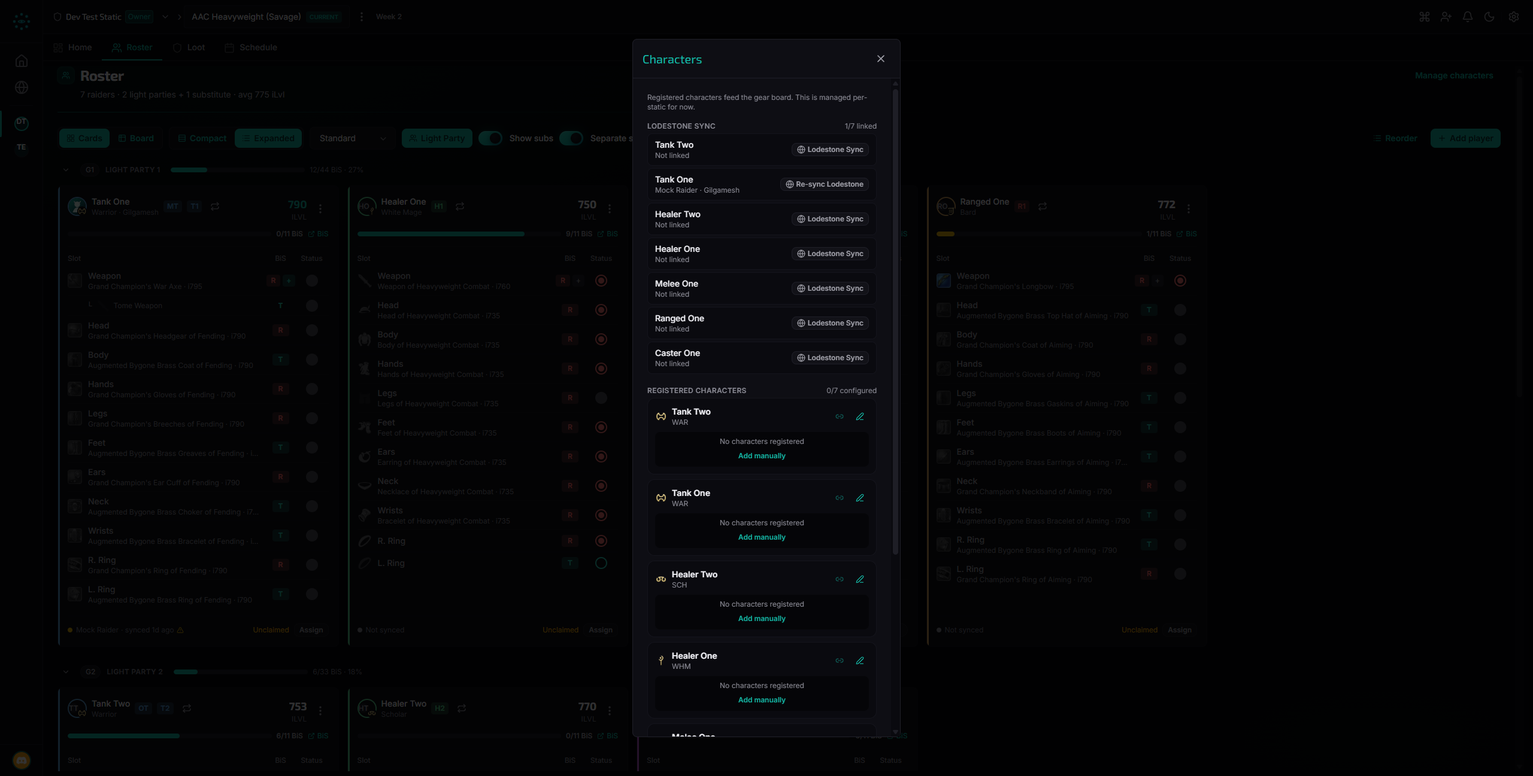
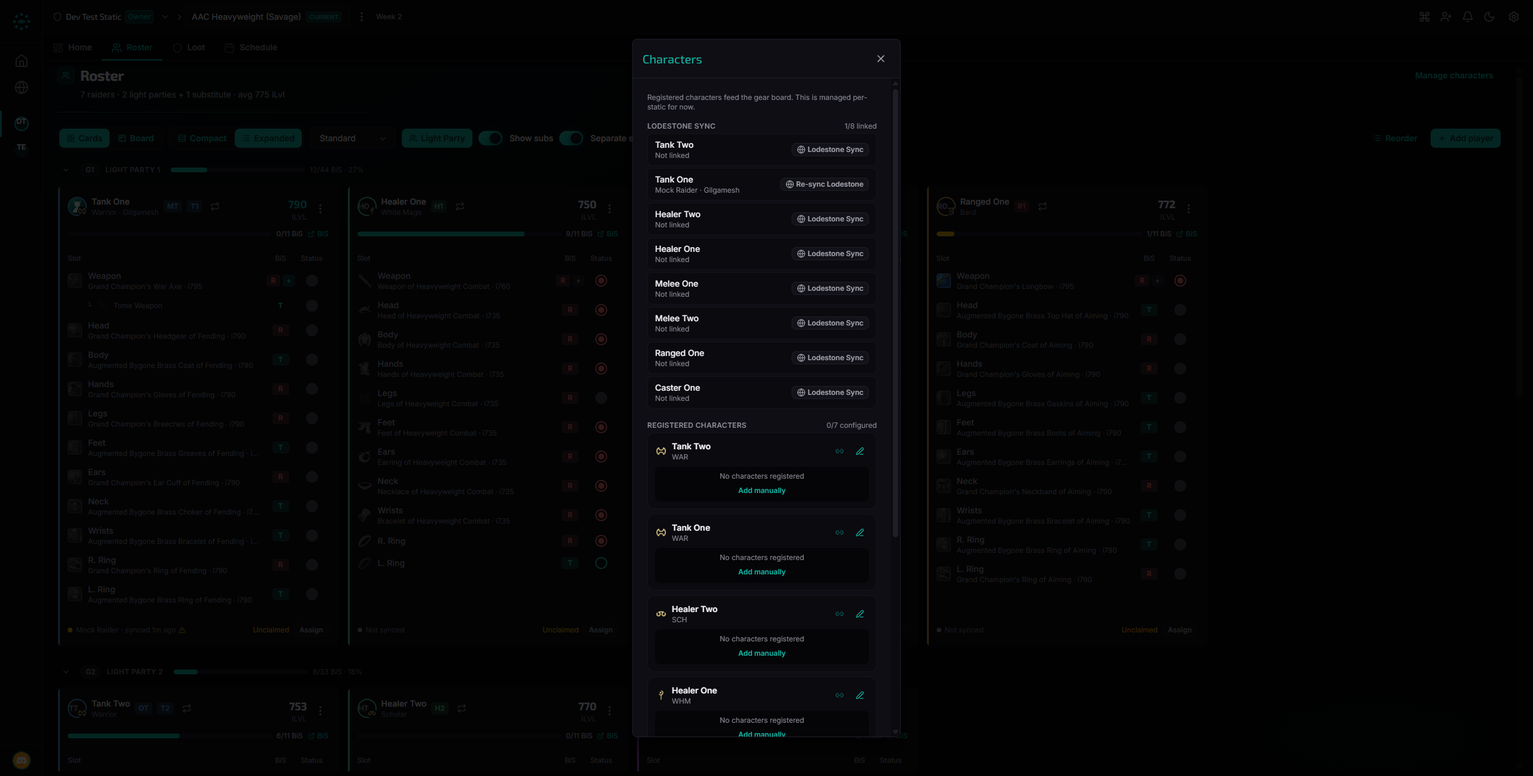
fix(redesign): C8 director change-review — fold all 10 findings
Verdict was PARITY-GAP. The mount ruling and the V1 freeze held (director
re-ran the two-part assert independently), but the entry list dropped a case.

BLOCKER F1 — substitutes had no v2 path to the flow at all. The section was
built from `mainRosterPlayers` (`configured && !isSubstitute`). The `configured`
half is parity; the `!isSubstitute` half is not — legacy renders a full
PlayerCard for every substitute (`PlayerGrid.tsx:680-681`) and R-041 carries no
isSubstitute condition, while v2's kebab deliberately never had the item. Net:
unreachable. The sync list is now its own wider list (`syncEligiblePlayers`);
the shared registry panel keeps legacy's main-roster-only list, matching
legacy's own mount at `GroupViewContent.tsx:948`. Live: "1/8 linked" with
Melee Two present.

MAJOR F2 — the gate passed raw `isAdmin` where every other `canEditPlayer`
caller passes `isAdminAccess` (`PlayerCard.tsx:319-320`). Under View As the
rows would all have stayed enabled while the cards downgraded. Worse, the
tests pinned `isAdmin: false` and so regression-locked the divergence; the
Roster suite now drives an admin through the actual derivation.

MAJOR F4 — the stated reason for the modal hand-off was false. `Modal.tsx:61-66`
calls `stopImmediatePropagation`, so Escape never closes both. The real hazard
is that the FIRST registered listener wins it, so Escape would close the
background Characters modal and leave the sync flow over nothing; both also keep
[…]

diff --git a/frontend/src/components/roster/CharacterManageBridge.tsx b/frontend/src/components/roster/CharacterManageBridge.tsx
@@ -18,17 +18,26 @@ import { RosterCharacterPanel } from './RosterCharacterPanel';
 
 interface CharacterManageBridgeProps {
   groupId: string;
+  /** Registry list — legacy's own Characters panel is main-roster-only. */
   players: SnapshotPlayer[];
+  /**
+   * Lodestone-sync list. Wider than `players`: legacy renders a full PlayerCard
+   * (kebab and all) for substitutes, so R-041 reaches them. Defaults to
+   * `players` for callers that don't distinguish.
+   */
+  syncPlayers?: SnapshotPlayer[];
   canEdit: boolean;
   tierId?: string;
   userRole?: MemberRole | null;
   currentUserId?: string | null;
+  /** Admin ACCESS (`isAdminAccess`), not the raw flag — View As must downgrade. */
   isAdmin?: boolean;
 }
 
 export const CharacterManageBridge: React.FC<CharacterManageBridgeProps> = ({
   groupId,
   players,
+  syncPlayers,
   canEdit,
   tierId,
   userRole,
@@ -38,12 +47,21 @@ export const CharacterManageBridge: React.FC<CharacterManageBridgeProps> = ({
   const [isOpen, setIsOpen] = useState(false);
   const [syncPlayerId, setSyncPlayerId] = useState<string | null>(null);
 
-  const syncPlayer = players.find(p => p.id === syncPlayerId) ?? null;
-  const linkedCount = players.filter(p => p.lodestoneId).length;
+  const syncRoster = syncPlayers ?? players;
+  const syncPlayer = syncPlayerId ? syncRoster.find(p => p.id === syncPlayerId) ?? null : null;
+  const linkedCount = syncRoster.filter(p => p.lodestoneId).length;
 
-  // Both Modals render at z-50 and each listens for Escape on `window`, so
-  // stacking them would close both on one keypress. Hand off instead: opening
-  // the sync flow closes Characters, and closing it returns the user there.
+  // Derived, not stored: if the target leaves the roster mid-flow (a poll, or
+  // someone removes them) the sync modal unmounts on its own, and the user falls
+  // back into Characters rather than being left with both dialogs shut.
+  const charactersOpen = isOpen || (syncPlayerId !== null && syncPlayer === null);
+
+  // Deliberately one modal at a time. With both open, each Modal registers its
+  // Escape handler on `window` and the first one registered wins the
+  // `stopImmediatePropagation` (`Modal.tsx:61-66`) — so Escape would close the
+  // *background* Characters modal and leave the sync flow floating over nothing.
+  // Both also keep a Tab focus trap on `window`. Hand off instead: opening the
+  // sync flow closes Characters, and closing it returns the user there.
   function openSync(playerId: string) {
     setSyncPlayerId(playerId);
     setIsOpen(false);
@@ -60,30 +78,31 @@ export const CharacterManageBridge: React.FC<CharacterManageBridgeProps> = ({
         Manage characters
       </Button>
       <Modal
-        isOpen={isOpen}
-        onClose={() => setIsOpen(false)}
+        isOpen={charactersOpen}
+        onClose={() => { setIsOpen(false); setSyncPlayerId(null); }}
         title="Characters"
       >
         <p className="text-xs text-text-muted mb-4">
           Registered characters feed the gear board. This is managed per-static for now.
         </p>
 
-        {players.length > 0 && (
+        {syncRoster.length > 0 && (
           <section className="mb-5">
             <div className="flex items-baseline justify-between mb-1">
               <h3 className="text-xs font-semibold text-text-muted uppercase tracking-wide">
                 Lodestone sync
               </h3>
               <p className="text-xs text-text-muted">
-                {linkedCount}/{players.length} linked
+                {linkedCount}/{syncRoster.length} linked
               </p>
             </div>
             <ul className="space-y-1">
-              {players.map(player => {
+              {syncRoster.map(player => {
                 // Gated per player, exactly as legacy gated R-041: a member can
                 // sync their own claimed card without roster-level manage rights.
                 const permission = canEditPlayer(userRole, player, currentUserId ?? undefined, isAdmin);
                 const label = player.lodestoneId ? 'Re-sync Lodestone' : 'Lodestone Sync';
+                const displayName = player.name || '—';
                 const identity = player.lodestoneId
                   ? [player.lodestoneName ?? 'Linked character', player.lodestoneServer].filter(Boolean).join(' · ')
                   : 'Not linked';
@@ -94,16 +113,23 @@ export const CharacterManageBridge: React.FC<CharacterManageBridgeProps> = ({
                     className="flex items-center gap-3 rounded-lg border border-border-subtle bg-surface-raised px-3 py-2"
                   >
                     <div className="flex-1 min-w-0">
-                      <p className="text-sm font-medium text-text-primary truncate">{player.name || '—'}</p>
-                      <p className="text-xs text-text-muted truncate">{identity}</p>
+                      <p className="text-sm font-medium text-text-primary truncate">{displayName}</p>
+                      {/* A disabled Button is pointer-events-none, so a native
+                          `title` can never fire — the reason has to be on screen,
+                          and it wraps rather than truncating: a reason cut to
+                          "Members can only edit their own cl…" explains nothing. */}
+                      {permission.allowed ? (
+                        <p className="text-xs text-text-muted truncate">{identity}</p>
+                      ) : (
+                        <p className="text-xs text-text-muted">{permission.reason}</p>
+                      )}
                     </div>
                     <Button
                       type="button"
                       size="xs"
                       variant="secondary"
                       disabled={!permission.allowed}
-                      title={permission.allowed ? undefined : permission.reason}
-                      aria-label={`${label} for ${player.name}`}
+                      aria-label={`${label} for ${displayName}`}
                       onClick={() => openSync(player.id)}
                     >
                       <Globe className="h-3.5 w-3.5" />

diff --git a/frontend/src/components/roster/CharacterManageBridge.test.tsx b/frontend/src/components/roster/CharacterManageBridge.test.tsx
@@ -188,6 +188,74 @@ describe('CharacterManageBridge — Lodestone sync (C8 / D-12)', () => {
     expect(screen.getByRole('button', { name: /Lodestone Sync for Sage Main/i })).toBeDisabled();
   });
 
+  // Legacy renders a full PlayerCard — kebab and all — for substitutes
+  // (`PlayerGrid.tsx:680-681`), and R-041 carries no isSubstitute condition. The
+  // shared registry panel below keeps legacy's main-roster-only list.
+  it('offers the entry to substitutes, who have no other v2 path to the flow', () => {
+    const sub = makePlayer({ id: 'p3', name: 'Melee Two', isSubstitute: true });
+
+    render(
+      <CharacterManageBridge
+        groupId="g1"
+        players={players}
+        syncPlayers={[...players, sub]}
+        canEdit
+        userRole="owner"
+        currentUserId="u1"
+        isAdmin={false}
+      />,
+    );
+    openCharacters();
+
+    expect(screen.getByRole('button', { name: /Lodestone Sync for Melee Two/i })).toBeEnabled();
+    expect(screen.getByText('1/3 linked')).toBeInTheDocument();
+  });
+
+  // A disabled Button is `pointer-events-none`, so a native `title` can never
+  // fire — the reason has to be rendered, not attached.
+  it('shows why an entry is unavailable instead of only attaching a title', () => {
+    render(
+      <CharacterManageBridge groupId="g1" players={players} canEdit={false} userRole="viewer" currentUserId="u1" isAdmin={false} />,
+    );
+    openCharacters();
+
+    expect(screen.getAllByText(/Viewers cannot edit players/i).length).toBeGreaterThan(0);
+  });
+
+  it('falls back to the same placeholder in the accessible name as on screen', () => {
+    render(
+      <CharacterManageBridge
+        groupId="g1"
+        players={[makePlayer({ id: 'p9', name: '' })]}
+        canEdit
+        userRole="owner"
+        currentUserId="u1"
+        isAdmin={false}
+      />,
+    );
+    openCharacters();
+
+    expect(screen.getByRole('button', { name: 'Lodestone Sync for —' })).toBeInTheDocument();
+  });
+
+  it('drops the sync target when that player leaves the roster mid-flow', () => {
+    const { rerender } = render(
+      <CharacterManageBridge groupId="g1" players={players} canEdit userRole="owner" currentUserId="u1" isAdmin={false} />,
+    );
+    openCharacters();
+    fireEvent.click(screen.getByRole('button', { name: /Lodestone Sync for Warrior Main/i }));
+    expect(screen.getByTestId('lodestone-modal')).toBeInTheDocument();
+
+    // The player is removed while the flow is open (a poll or a roster edit).
+    rerender(
+      <CharacterManageBridge groupId="g1" players={[players[1]]} canEdit userRole="owner" currentUserId="u1" isAdmin={false} />,
+    );
+
+    // Not stranded between two shut dialogs — back in Characters.
+    expect(screen.queryByTestId('lodestone-modal')).not.toBeInTheDocument();
+    expect(screen.getByTestId('char-panel')).toBeInTheDocument();
+  });
+
   it('disables every entry for a viewer', () => {
     render(
       <CharacterManageBridge groupId="g1" players={players} canEdit={false} userRole="viewer" currentUserId="u1" isAdmin={false} />,

diff --git a/frontend/src/components/roster/Roster.test.tsx b/frontend/src/components/roster/Roster.test.tsx
@@ -61,9 +61,10 @@ vi.mock('../../hooks/usePlayerActions', () => ({
   },
 }));
 
+const authState = vi.hoisted(() => ({ user: { id: 'u1', isAdmin: false } }));
 vi.mock('../../stores/authStore', () => ({
   useAuthStore: (selector: (s: { user: { id: string; isAdmin: boolean } }) => unknown) =>
-    selector({ user: { id: 'u1', isAdmin: false } }),
+    selector(authState),
 }));
 
 vi.mock('../../stores/viewAsStore', () => ({
@@ -287,6 +288,40 @@ describe('Roster', () => {
         isAdmin: false,
       }),
     );
+  });
+
+  // Substitutes get a full PlayerCard (and so the R-041 kebab item) in legacy,
+  // but they are filtered out of `mainRosterPlayers`, which the shared registry
+  // panel needs. The sync list is therefore its own, wider list.
+  it('gives the bridge a sync list that includes substitutes', () => {
+    renderRoster(makeTier([
+      makePlayer({ id: 'p1', name: 'Tank One' }),
+      makePlayer({ id: 'p2', name: 'Melee Two', isSubstitute: true }),
+    ]));
+
+    const props = charBridgeProps.mock.calls.at(-1)![0] as {
+      players: SnapshotPlayer[];
+      syncPlayers: SnapshotPlayer[];
+    };
+    expect(props.players.map(p => p.name)).toEqual(['Tank One']);
+    expect(props.syncPlayers.map(p => p.name)).toEqual(expect.arrayContaining(['Tank One', 'Melee Two']));
+  });
+
+  // Every other canEditPlayer caller passes isAdminAccess, not raw isAdmin, so
+  // "View As" and non-admin-mode browsing downgrade the admin
+  // (PlayerCard.tsx:319-320, useRosterCardActions.tsx:20-21).
+  it('hands the bridge admin ACCESS, not the raw admin flag', () => {
+    authState.user = { id: 'u1', isAdmin: true };
+    try {
+      // No ?adminMode=true in the URL, so isAdminAccess is false.
+      renderRoster(makeTier([makePlayer({ id: 'p1', name: 'Tank One' })]));
+
+      expect(charBridgeProps).toHaveBeenLastCalledWith(
+        expect.objectContaining({ isAdmin: false }),
+      );
+    } finally {
+      authState.user = { id: 'u1', isAdmin: false };
+    }
   });
 
   it('renders a singular "1 raider" subtitle and tolerates a null tier', () => {

diff --git a/frontend/src/data/releaseNotes.ts b/frontend/src/data/releaseNotes.ts
@@ -70,7 +70,7 @@ export const RELEASES: Release[] = [
         category: 'feature',
         title: 'New UI: Lodestone character sync is reachable again (Phase C, slice C8)',
         description:
-          'Opt-in new UI only (admin-gated preview). The Lodestone search → preview → sync flow had no way in from the new UI — the old card menu was its only entry point anywhere in the app. It now lives in the Roster’s “Manage characters” dialog, as a “Lodestone sync” row per player showing the linked character and world, with “Lodestone Sync” or “Re-sync Lodestone” alongside. The flow itself is unchanged; only the way in is new. Members can sync their own claimed card without needing to manage the roster, exactly as before. Opening the sync flow sets the Characters dialog aside and returns you to it when you close.',
+          'Opt-in new UI only (admin-gated preview). The Lodestone search → preview → sync flow had no way in from the new UI — the old card menu was its only entry point anywhere in the app. It now lives in the Roster’s “Manage characters” dialog, as a “Lodestone sync” row for every player on the roster, substitutes included, showing the linked character and world with “Lodestone Sync” or “Re-sync Lodestone” alongside. The flow itself is unchanged; only the way in is new. Who may use it is unchanged too: members can sync their own claimed card without managing the roster, and a row you can’t use now says why instead of staying silently greyed out. Opening the sync flow sets the Characters dialog aside and returns you to it when you close.',
         pr: 201,
         prTitle: 'feat(redesign): Phase C slice C8 — Lodestone re-home (D-12 flow)',
       },

diff --git a/frontend/src/components/roster/Roster.tsx b/frontend/src/components/roster/Roster.tsx
@@ -230,6 +230,16 @@ export function Roster({ group, tier, canManage }: RosterProps) {
     [sortedPlayers],
   );
 
+  // C8: legacy renders a full PlayerCard — kebab and all — for substitutes
+  // (`PlayerGrid.tsx:680-681`), and R-041 carries no isSubstitute condition, so
+  // a sub's Lodestone sync is reachable in V1. The character *registry* panel
+  // stays main-roster-only, matching legacy's own mount
+  // (`GroupViewContent.tsx:948`); only the sync list widens.
+  const syncEligiblePlayers = useMemo(
+    () => sortedPlayers.filter((p) => p.configured),
+    [sortedPlayers],
+  );
+
   // ── Board next-upgrade (●) highlight (F6d, spec §5.8) ──
   // Merge settings exactly as Loot does so the priority gate matches.
   const settings = useMemo(() => ({ ...DEFAULT_SETTINGS, ...group.settings }), [group.settings]);
@@ -478,11 +488,12 @@ export function Roster({ group, tier, canManage }: RosterProps) {
           <CharacterManageBridge
             groupId={group.id}
             players={mainRosterPlayers}
+            syncPlayers={syncEligiblePlayers}
             canEdit={canManage}
             tierId={tierId}
             userRole={userRole}
             currentUserId={effectiveUserId ?? null}
-            isAdmin={isAdmin}
+            isAdmin={isAdminAccess}
           />
         }
       />

diff --git a/frontend/eslint.config.js b/frontend/eslint.config.js
@@ -220,8 +220,18 @@ export default defineConfig([
       // Character-panel subtree: a DECLARED shared surface (systems-flow-map.md
       // §2.2 — legacy mounts RosterCharacterPanel on its Characters sub-tab), so
       // its existing tiny-text debt cannot be restyled without a V1-visible
-      // change. Carve-out dies when D-12/C8 re-homes the Characters flow.
-      'src/components/roster/Character*',
+      // change.
+      //
+      // C8 (2026-07-28) narrowed this: the carve-out was `Character*`, which also
+      // swept up `CharacterManageBridge.tsx` — a v2-ONLY wrapper that no legacy
+      // path renders. C8 put the re-homed Lodestone entry there, so it is now
+      // locked like the rest of `roster/**`. The remaining entries are the leaves
+      // legacy really does mount. The carve-out dies for good when the registry
+      // re-homes to Player Hub at Stage 3.
+      'src/components/roster/CharacterRegistrationRow.tsx',
+      'src/components/roster/CharacterRoleBadge.tsx',
+      'src/components/roster/CharacterSourceBadge.tsx',
+      'src/components/roster/CharacterSyncBadge.tsx',
       'src/components/roster/RosterCharacter*',
       'src/components/roster/AddManualCharacterModal.tsx',
       'src/components/roster/LinkPlayerHubCharacterModal.tsx',

diff --git a/design/redesign/specs/v1-v2-parity-matrix.md b/design/redesign/specs/v1-v2-parity-matrix.md
@@ -152,7 +152,7 @@ D-72 · D-66 → D-66 + D-70 · D-67 → D-67 + D-71. IDs are never re-used or r
 | **D-09** | **Player-card status badges** — SUB, BiS-link badge (opens xivgear/etro in a new tab, source-aware tooltip), "You", linked-user avatar+name badge, weapon-priority "+N" badge. | LOST | R-077, R-078, R-079, R-080, R-081, R-155 | **RESTORED (C5, 2026-07-26) — dissolved into the C1 one-axis homes**, not re-assembled as legacy's single strip: SUB + the "+N" weapon-priority tag join the header identity cluster; the BiS-link affordance rides the progress line (the BiS story's axis) as a real external anchor (new tab, `noopener`, source-aware tooltip + aria-label); "You"/linked-user complete the footer's claim story | no data | **RESTORE** *(full badge row on the v2 card; ruled 2026-07-26)* ⚠ *C5 recorded deltas (2026-07-26): (1) placement — one badge row → three one-axis homes (header identity cluster / progress line / footer claim story), per the C1 ruling; (2) membership-role color coding on the "You"/linked-user badges dropped — the role is named in the tooltip instead (v2 `Tag` tones); (3) the SUB tooltip copy says "static", not legacy's "raid group"; (4) badges render as constrained primitives (`Tag`/`LinkText`), never bare accent text; (5, director fold) SUB riding the header identity cluster wraps a substitute card's header to a second line at compact widths — accepted layout cost of the one-axis placement (visible in `c5-compact-owner-dark.png`, Melee Two).* ⚠ *PR-#193-review round-5 deltas (2026-07-26, Copilot — both accepted): (6) a claimed card whose `linked_user` didn't hydrate (it's optional in the API schema) now renders a generic "Claimed" tag instead of nothing — legacy left that case blank (`PlayerCardStatus:197` gates on `isLinkedToOther && linkedUser`), which v2 cannot inherit because the footer owns the ENTIRE claim story under the one-axis ruling; (7) the forked BiS-link builders test a real `^https?://` scheme where legacy tested `startsWith('http')` — legacy's check passed gearset ids like "httpfoo" straight into `href`, emitting a same-origin relative link on a `target="_blank"` anchor. Deliberate divergence from the byte-frozen fork, documented in `bisLinkMeta.ts`.* |
 | **D-10** | **Card metrics beyond the number** — the completed/total **progress ring**, and the **per-slot "Now vs BiS" hover breakdown** behind the average-iLv readout. | LOST | R-074, R-075 | **⚠ CORRECTED — v2 *does* show average iLvl** on the card, under an "iLvl" label (`RosterCard.tsx:658-693` post-C5; a row the v2 inventory missed — see §11 note). Genuinely lost: R-074's `ProgressRing` and R-075's long-press/hover comparison panel (per-slot BiS iLv, equipped-vs-target two-column view). The bare number survives; the *explanation* behind it does not. **→ RESTORED (C5, 2026-07-26):** the Now-vs-BiS hover panel returns behind the iLvl readout (`NowVsBisPanel` — per-slot BiS iLv, with the equipped "Now" column when sync data covers ≥ half the slots), and the readout itself goes **equipped-first** with BiS-target fallback (legacy `PlayerCardHeader` parity — v2 previously always showed the BiS-target average) | no data | **RESTORE** *(progress ring + Now-vs-BiS hover panel; ruled 2026-07-26)* ⚠ *AMENDED at the C1 checkpoint (2026-07-26): the progress ring is DROPPED — the restored card's BiS progress bar serves in its place. The Now-vs-BiS hover breakdown still restores (C5).* ⚠ *C5 recorded deltas (2026-07-26): the panel is restyled to the v2 12px floor (legacy ran its column header at 10px), and the headline number switches from always-BiS-average to legacy's equipped-first semantics — the placeholder "—" carries no hover (nothing to explain).* ⚠ *C5 director-fold deltas (2026-07-26): (1) the legacy color discriminator RESTORED — the number renders `text-accent` when equipped-derived, default otherwise (a hover is not a visible discriminator); (2) the GearBoard row subtitle goes equipped-first through the same shared `rosterIlv` helper, so the two v2 roster views always print the same number; (3) legacy's redundant native `title` on the readout dropped — the panel says both averages.* ⚠ *INHERITED-SEMANTICS DEBT (recorded at PR #193 review round 2, Copilot; DECLINED as out of restore scope): the number both shells label "BiS target avg" is really a current-progress estimate — `calculateAverageItemLevel` deliberately ignores an imported `itemLevel` while `hasItem` is false and prices unowned slots at `currentSource` (pinned intentional in `calculations.test.ts:116-122`), so an unowned i790 slot over crafted reads i770 and the panel's per-slot deltas compare against that. This is exact legacy semantics (same fallbacks in frozen `PlayerCardHeader.getSlotItemLevel`, same label in its tooltip) and the same function drives BOTH shells' cards, the Board and the team averages — re-labeling or computing a true ownership-independent target is a both-shells product call, queued for the holistic "revisit when whole" list, not a C5 unilateral change.* ⚠ *Same debt, second face (recorded at review round 10, claude-review; code change DECLINED): the panel's ROWS and its "BiS target avg" FOOTER come from different functions — rows from legacy `PlayerCardHeader.getSlotItemLevel` (which prices an owned `crafted` BiS slot at the tier's crafted level), the footer from `calculateAverageItemLevel` (which has no `crafted` case and takes the imported `itemLevel`). So an owned crafted-BiS slot whose import differs from the tier's crafted level shows a row that disagrees with the average printed below it. Legacy pairs those exact two functions in the exact same panel (`PlayerCardHeader.tsx:30, :129, :473`), so this is v1's behavior, not a C5 regression; the restored panel keeps it rather than silently printing different numbers than v1. `NowVsBisPanel.tsx`'s docstring inherited legacy's inaccurate "mirrors calculateAverageItemLevel" comment and has been corrected to name the real source and this consequence. Resolving it = the same both-shells product call as above.* |
 | **D-11** | **Card identity & personalization display** — roster title, roster note, flex-role chips, and the Lodestone character portrait with role-ring + job badge. | LOST | R-068, R-073 | **⚠ CORRECTED — R-064 (the 3px role-colour accent edge) IS present** in v2 (`RosterCard.tsx:542-546` post-C5, another inventory miss) and has been moved to §1.K. Genuinely lost: the Lodestone portrait frame (R-068) and the whole personalization display (R-073). The *editor* survives (V2R-14 "Flex Roles") — only the card-side rendering is gone. **→ REDESIGN SHIPPED (C5, 2026-07-26), LEAN:** the Lodestone portrait rides `PlayerIdentity`'s existing avatar seam on the **expanded** card (role ring + job badge come with it; `SafeAvatar` allowlist + initials fallback), and the roster title renders as a single accent line under the header (expanded only) | no data | **REDESIGN** *(identity returns selectively — e.g. portrait + title on the expanded card; per-element calls made in Phase C design; ruled 2026-07-26)* ⚠ *C5 per-element calls (2026-07-26, evidenced by the C5 PR screenshots — portrait in both `c5-expanded-owner-*.png`, roster title live in `c5-bis-target-chip-dark.png` + `c5-expanded-owner-light.png`): portrait YES (expanded only), roster title YES (expanded only), roster note NO, flex-role chips NO — both stay editor-only; the compact card is untouched.* |
-| **D-12** | **Lodestone character sync** — kebab "Lodestone Sync / Re-sync" and the whole search→preview→sync→compare modal (search, mock mode, URL/ID paste, linked panel, gear preview grid, sync, overwrite warning, identity-only fallback, post-sync compare, mismatch notices). *Rider: the card's sync **status line** (R-072) survives in reduced form as V2R-17 and is accounted in §1.K — restoring the flow should restore its character/server and job-mismatch detail too.* | **LOST** *(was CHANGED — re-classified by the fact-check)* | R-041, R-132, R-133, R-134, R-135, R-136, R-137, R-138, R-139, R-140, R-141 | **✅ VERIFIED (fact-check Q3): `RosterCharacterPanel` has NO Lodestone search** — only "Link Player Hub character" (`RosterCharacterMemberCard.tsx:85-91`), "Add manual character" (`:92-101`) and a passive `CharacterSyncBadge`. The same panel is mounted by **both** shells (legacy `GroupViewContent.tsx:948`, v2 `CharacterManageBridge.tsx:31`), so V2R-06 is not a re-home. With the card kebab gone, **`LodestoneSearchModal` has no entry point anywhere in v2's in-static surfaces** | no data | **REDESIGN** *(re-home the flow into the Characters modal / Player Hub path rather than the card kebab; rider R-072 detail restores with it; ruled 2026-07-26)* ⚠ *Rider amended at the C1 checkpoint (2026-07-26): the R-072 sync-line detail returns as a REDESIGNED, leaner treatment — v1's sync block bloats the card ("too much information… we can do better in v2"); the character/server + job-mismatch information is kept, the form is new (C5).* ✅ *Rider SHIPPED in C5 (2026-07-26): the footer sync line names the character (+ sync age); server, sync provenance and the job-mismatch explanation live in the hover detail; a mismatch also keeps a visible warning glyph + warning-colored dot, so it never hides behind the hover (live in `c5-sync-mismatch-dark.png`). No sub-12px text (legacy's block ran at 11px). Director-fold refinements (2026-07-26): the line renders as TWO segments — the name truncates at crowded widths, the age never does — and the detail hover is a `LongPressTooltip` (same pattern as the iLvl panel, keeps a touch path); keyboard/AT reachability of the hover detail rides the consolidated end-phase mobile/a11y pass. PR-#193-review fix (2026-07-26, Copilot): sync STATUS keys on `lastSync` itself, not Lodestone identity — a Player Hub claim auto-links sync data with no lodestone fields (`tiers.py _auto_link_bis_from_hub`), and the line now reads "Player Hub · synced Xh ago" there instead of contradicting the equipped-first headline with "Not synced"; the job-mismatch warning fires on hub syncs too. (Legacy had the same blind spot invisibly — its sync block simply didn't render without Lodestone identity; v1 byte-frozen, debt recorded here.) The flow re-home itself remains C8.* ✅ **FLOW RESTORED (C8, 2026-07-28)** — the entry lands in the **v2-owned** `CharacterManageBridge.tsx` (a "Lodestone sync" section inside the Characters modal, one row per roster player), NOT in `RosterCharacterPanel`, so the §2.2 shared-surface exception is resolved by structure: zero V1-visible change, no shell gate, no shared-file hunk. **R-132…R-141 were never rebuilt** — they already shipped inside `LodestoneSearchModal` and were LOST only because nothing in v2 opened it; the deliverable was the entry point (R-041). **Two user rulings opened the slice (2026-07-27, both the plan's §5 silent defaults):** C8 stays in Phase C (not slid to Stage 3), and the mount is the v2-owned wrapper (the third option — an explicit V1-visible delta — was rejected: legacy already reaches the flow from its kebab, so a shared-panel entry would add a redundant V1 entry that fixes nothing). **Recorded deltas vs legacy:** (1) the entry is a per-player row in a Characters modal rather than a card kebab item, and it names the linked character + world where legacy's kebab named nothing; (2) opening the sync flow **closes** the Characters modal and closing it returns there — legacy never stacked these, and both `Modal`s render at `z-50` with a `window` Escape listener, so stacking would close both on one keypress; (3) legacy's copy is preserved verbatim (`Lodestone Sync` / `Re-sync Lodestone`, `PlayerCard.tsx:358`), extended for AT with the player name. **Permission parity held deliberately:** the row gates on per-player `canEditPlayer` (legacy's R-041 gate), not the bridge's roster-level `canEdit` — a member can sync their own claimed card, live-proven. `tierId` is threaded through because the modal's own post-sync `fetchTier` (`LodestoneSearchModal.tsx:300-302`) is what refreshes the roster; without it the sync would land silently.* |
+| **D-12** | **Lodestone character sync** — kebab "Lodestone Sync / Re-sync" and the whole search→preview→sync→compare modal (search, mock mode, URL/ID paste, linked panel, gear preview grid, sync, overwrite warning, identity-only fallback, post-sync compare, mismatch notices). *Rider: the card's sync **status line** (R-072) survives in reduced form as V2R-17 and is accounted in §1.K — restoring the flow should restore its character/server and job-mismatch detail too.* | **LOST** *(was CHANGED — re-classified by the fact-check)* | R-041, R-132, R-133, R-134, R-135, R-136, R-137, R-138, R-139, R-140, R-141 | **✅ VERIFIED (fact-check Q3): `RosterCharacterPanel` has NO Lodestone search** — only "Link Player Hub character" (`RosterCharacterMemberCard.tsx:85-91`), "Add manual character" (`:92-101`) and a passive `CharacterSyncBadge`. The same panel is mounted by **both** shells (legacy `GroupViewContent.tsx:948`, v2 `CharacterManageBridge.tsx:31`), so V2R-06 is not a re-home. With the card kebab gone, **`LodestoneSearchModal` has no entry point anywhere in v2's in-static surfaces** | no data | **REDESIGN** *(re-home the flow into the Characters modal / Player Hub path rather than the card kebab; rider R-072 detail restores with it; ruled 2026-07-26)* ⚠ *Rider amended at the C1 checkpoint (2026-07-26): the R-072 sync-line detail returns as a REDESIGNED, leaner treatment — v1's sync block bloats the card ("too much information… we can do better in v2"); the character/server + job-mismatch information is kept, the form is new (C5).* ✅ *Rider SHIPPED in C5 (2026-07-26): the footer sync line names the character (+ sync age); server, sync provenance and the job-mismatch explanation live in the hover detail; a mismatch also keeps a visible warning glyph + warning-colored dot, so it never hides behind the hover (live in `c5-sync-mismatch-dark.png`). No sub-12px text (legacy's block ran at 11px). Director-fold refinements (2026-07-26): the line renders as TWO segments — the name truncates at crowded widths, the age never does — and the detail hover is a `LongPressTooltip` (same pattern as the iLvl panel, keeps a touch path); keyboard/AT reachability of the hover detail rides the consolidated end-phase mobile/a11y pass. PR-#193-review fix (2026-07-26, Copilot): sync STATUS keys on `lastSync` itself, not Lodestone identity — a Player Hub claim auto-links sync data with no lodestone fields (`tiers.py _auto_link_bis_from_hub`), and the line now reads "Player Hub · synced Xh ago" there instead of contradicting the equipped-first headline with "Not synced"; the job-mismatch warning fires on hub syncs too. (Legacy had the same blind spot invisibly — its sync block simply didn't render without Lodestone identity; v1 byte-frozen, debt recorded here.) The flow re-home itself remains C8.* ✅ **FLOW RESTORED (C8, 2026-07-28)** — the entry lands in the **v2-owned** `CharacterManageBridge.tsx` (a "Lodestone sync" section inside the Characters modal, one row per **configured** player **including substitutes**), NOT in `RosterCharacterPanel`, so the §2.2 shared-surface exception is resolved by structure: zero V1-visible change, no shell gate, no shared-file hunk. **R-132…R-141 were never rebuilt** — they already shipped inside `LodestoneSearchModal` and were LOST only because nothing in v2 opened it; the deliverable was the entry point (R-041). **Two user rulings opened the slice (2026-07-27, both the plan's §5 silent defaults):** C8 stays in Phase C (not slid to Stage 3), and the mount is the v2-owned wrapper (the third option — an explicit V1-visible delta — was rejected: legacy already reaches the flow from its kebab, so a shared-panel entry would add a redundant V1 entry that fixes nothing). **Recorded deltas vs legacy:** (1) the entry is a per-player row in a Characters modal rather than a card kebab item, and it names the linked character + world where legacy's kebab named nothing; (2) opening the sync flow **closes** the Characters modal and closing it returns there — legacy never stacked these, and stacking is genuinely unsafe here: each `Modal` registers its Escape handler on `window` and the **first registered wins** the `stopImmediatePropagation` (`Modal.tsx:61-66`), so Escape would close the *background* Characters modal and leave the sync flow floating over nothing, while both keep a Tab focus trap on `window` *(director-corrected 2026-07-28 — the first draft of this row and the code comment both claimed Escape would close **both**, which `Modal.tsx` refutes; the hand-off behaviour stands, the reason was wrong)*; (3) legacy's copy is preserved verbatim (`Lodestone Sync` / `Re-sync Lodestone`, `PlayerCard.tsx:358`), extended for AT with the player name; (4) a denied row states its reason **on screen** rather than in a `title`, because a disabled `Button` is `pointer-events-none` and a native tooltip can never fire (legacy's `ContextMenu` item is only `cursor-not-allowed`, so its `title` does show). **Permission parity held deliberately:** the row gates on per-player `canEditPlayer` (legacy's R-041 gate) with **`isAdminAccess`** as the admin argument — not the bridge's roster-level `canEdit`, and not the raw `isAdmin` flag, so View As downgrades the row exactly as it downgrades a card (`PlayerCard.tsx:319-320`). A member can sync their own claimed card, live-proven. `tierId` is threaded through because the modal's own post-sync `fetchTier` (`LodestoneSearchModal.tsx:300-302`) is what refreshes the roster; without it the sync would land silently.* |
 | **D-13** | **PlayerSetupBanner** — the contextual banner on the card with role-specific CTA (owner/lead → "Assign Player", member → "Take Ownership", claimed-no-BiS → "Import BiS"), its hidden states, and its admin View-As re-routing. | CHANGED | R-082, R-083, R-084, R-085, R-181, R-182 | V2R-16 inline "Assign"/"Import" button inside the BiS line + V2H-05 "Needs your attention" list on Home (3 rows max per category) | `player_claim` 103 events/94 users; `bis_import` 182/86 | **KEEP V2** *(inline button + Home attention list is the v2 answer; banner not restored; ruled 2026-07-26)* |
 | **D-14** | **Open-seat configure form** — the permission-denied panel, role filter chips, searchable role-grouped job dropdown for non-template slots, template quick-pick, and Escape-closes-picker-then-form semantics. | CHANGED | R-099, R-100, R-101, R-102, R-103, R-104, R-105, R-106, R-184 | V2R-08 inline form = name `Input` + `JobPicker` only; V2R-09 remove (no confirm). No denied-state panel: the card simply isn't interactive | `player_configure` 225 events/32 users | **KEEP V2** *(lean name + JobPicker form stands; legacy machinery stays gone; ruled 2026-07-26)* |
 | **D-15** | **Job-change hand-off to BiS import** — legacy's 3-button confirm offers "Change Job **and Update BiS**" (opens BiSImportModal immediately). | CHANGED | R-059 | V2R-13 is a 2-option radio: keep current BiS / unlink BiS. No import hand-off | `bis_import` 182/86 | **RESTORE** *(third option "Change Job and Update BiS" → straight into import; ruled 2026-07-26)* ✅ **SHIPPED (C7, 2026-07-27).** The radio gains a third mode, "Update BiS for the new job", and the commit button names the chosen outcome — in that mode it reads legacy's exact string **"Change Job & Update BiS"** (`&`, not "and": user ruling 2026-07-27, PlayerCard.tsx:825 is the source of truth for the copy). **Recorded deltas:** (a) v2 keeps its radio + single commit button rather than legacy's three stacked buttons — same three outcomes, one axis; (b) the hand-off fires only after the mutation resolves, so a failed job change never opens an import for a job the card did not switch to — same ordering legacy had (`PlayerCard.tsx:233-245` awaits `onUpdate` first); recorded for the invariant, not as a behaviour change; (c) it reaches the import through the kebab's own opener (the C5 `getMenuAction` pattern), so no second import-modal state exists on the card; (d) the modal's old "Re-import BiS from the card menu after switching jobs" footnote is dropped — the option it pointed at is now in the dialog. Live-verified: mode selected → job committed → import modal opened; keep-mode opens nothing.* |

diff --git a/design/redesign/specs/phase-c-roster-plan.md b/design/redesign/specs/phase-c-roster-plan.md
@@ -124,7 +124,13 @@ reports nothing inside the locked subtree) — the per-slice `git grep` assert r
 backstop; (2) the Characters-panel subtree (`Character*`, `RosterCharacter*`,
 `AddManualCharacterModal`, `LinkPlayerHubCharacterModal`) is carved out of the lock because
 it is the declared shared surface legacy mounts (flow map §2.2) — its tiny-text debt cannot
-be restyled without a V1-visible change; the carve-out dies with D-12/C8.
+be restyled without a V1-visible change; the carve-out dies with D-12/C8. ✅ *Partly discharged
+(C8, 2026-07-28): the `Character*` glob also swept up `CharacterManageBridge.tsx`, which is
+**v2-only** — no legacy path renders it — so C8's own new code would have shipped outside the
+lock every other slice was held to (director F6). The glob is now the four leaves legacy really
+mounts (`CharacterRegistrationRow`, `CharacterRoleBadge`, `CharacterSourceBadge`,
+`CharacterSyncBadge`) plus `RosterCharacter*` and the two modals; the bridge is locked. The
+remainder dies when the registry re-homes to Player Hub at Stage 3.*
 *C3 addendum (2026-07-26, director change-review):* (3) a limit of the **contrast e2e pin**:
 axe-core cannot resolve Tailwind-4 `oklab(... / α)` alpha tints, so tinted-badge pairs
 (`text-gear-X` on `bg-gear-X/20` — the shared `BiSSourceSelector` trigger, same family as
@@ -165,7 +171,7 @@ static-not-"group" vocabulary check on all new copy · screenshots in PR · rele
 | **C5** | Metrics, badges, identity | ~~Progress ring~~ (dropped — checkpoint ruling 2026-07-26, the BiS bar serves), per-slot Now-vs-BiS hover panel, badge row (SUB / BiS-link / You / avatar / +N), **R-072 sync-line detail → REDESIGN, not 1:1 restore** (checkpoint ruling: v1's sync block bloats the card — design a leaner v2 treatment; character/server + job-mismatch info preserved), expanded-only active-BiS-target chip, D-11 selective identity (lean: portrait + title) | D-09, D-10, D-11, D-12 rider, D-01 chip | **Chip data reality (vet finding 7):** `useSharedBisStore` is populated only when BiSTargetManagerModal opens — no roster-level prefetch exists, and the endpoint is per-owner. **Slice-time choice:** inherit that latency (chip appears after the modal has run; demo scripted accordingly) or add a fetch — naming the cost (N per-player calls, or a new batched endpoint = backend scope). Default: inherit; no silent backend work |
 | **C6** | Toolbar restorations | `SortModeSelector` returns **+ v2-side `sort-preset-{tierId}` hydration** (follows tier switches), visible Separate-Subs toggle **+ v2-side `S` binding**, per-section collapse chevrons with persistence. Decide: does the subs toggle inherit the `hasSubstitutes` gate (shared hook `:128`) or render disabled? Default: inherit the gate. **C1-checkpoint additions (2026-07-26):** (a) **sort-vs-grouping split** — C1's "Light Party / Standard comp" dropdown conflates the two; the dropdown becomes the SORT-PRESET selector (reorders cards *within* their groups; sorts the flat grid when ungrouped) and grouping on/off becomes a distinct G1/G2-style toggle, v1 parity; (b) **re-click-Expanded = SECTION expand/collapse-all** (moved from C1): with any group folded, re-click expands all groups; with everything open, re-click folds all — cards keep their set density while folded, so unfolding a group shows them at that density; (c) **Show Subs gates Separate Subs** — Separate Subs renders disabled until Show Subs is on (v2 behaviour rule; fixes the v1 defect where both toggle independently) | D-06, D-07, D-08 | Kills the actual D-06 defect (corrected: v2 *ignores* the stored preset today) |
 | **C7** | Flows + superuser affordances | Job-change → BiS-import hand-off (3rd option); gear→ledger jumps (Alt+Click / right-click / kebab) → today's History deep-links **+ tab & `lview=history` setting**; **"Edit Books" leg is new navigation work** (no book deep-link exists — param + anchor scroll + highlight, `Loot.tsx:44-46`); **D-55 roster half**: R-062 Shift+Click copy-URL + R-076 the teaching tooltip | D-15, D-05, D-55(roster) | D-20 struck (already shipped — closeout verifies). Superuser affordances follow the ruled D-55 pattern: shortcuts/right-click, not buttons |
-| **C8** | Lodestone re-home | `LodestoneSearchModal` gets its Characters-path entry (per D-12 redesign); **slice opens with the §2.2 shared-surface decision** (v2-only mount vs explicit user-approved V1 delta — `RosterCharacterPanel` renders in both shells); **V1 guard = `smoke-legacy` #14** (`e2e/smoke-legacy.spec.ts:670`, the Lodestone search→preview→sync pin) must stay green untouched | D-12 flow | ✅ **SHIPPED 2026-07-28.** Both rulings taken (§5): stays in Phase C, mounts in the **v2-owned** `CharacterManageBridge`. Only R-041 (the entry) was built — R-132…R-141 already shipped inside `LodestoneSearchModal` and were merely unreachable. Gated per player on `canEditPlayer`, matching legacy's R-041 gate rather than the bridge's roster-level `canEdit`. `smoke-legacy` #14 green and untouched |
+| **C8** | Lodestone re-home | `LodestoneSearchModal` gets its Characters-path entry (per D-12 redesign); **slice opens with the §2.2 shared-surface decision** (v2-only mount vs explicit user-approved V1 delta — `RosterCharacterPanel` renders in both shells); **V1 guard = `smoke-legacy` #14** (`e2e/smoke-legacy.spec.ts:670`, the Lodestone search→preview→sync pin) must stay green untouched | D-12 flow | ✅ **SHIPPED 2026-07-28.** Both rulings taken (§5): stays in Phase C, mounts in the **v2-owned** `CharacterManageBridge`. Only R-041 (the entry) was built — R-132…R-141 already shipped inside `LodestoneSearchModal` and were merely unreachable. Gated per player on `canEditPlayer` **with `isAdminAccess`** (so View As downgrades it), matching legacy's R-041 gate rather than the bridge's roster-level `canEdit`. The sync list includes **substitutes** — legacy gives them a full card and kebab — while the shared registry panel keeps legacy's main-roster-only list. **Director change-review = PARITY-GAP, all 10 findings folded** (the sub exclusion was the blocker; the raw-`isAdmin` argument and a false Escape-stacking claim were the majors). C8 also retired the `roster/Character*` eslint carve-out for the v2-owned bridge, which §2.1 required of this slice. `smoke-legacy` #14 green and untouched |
 
 ---
 
